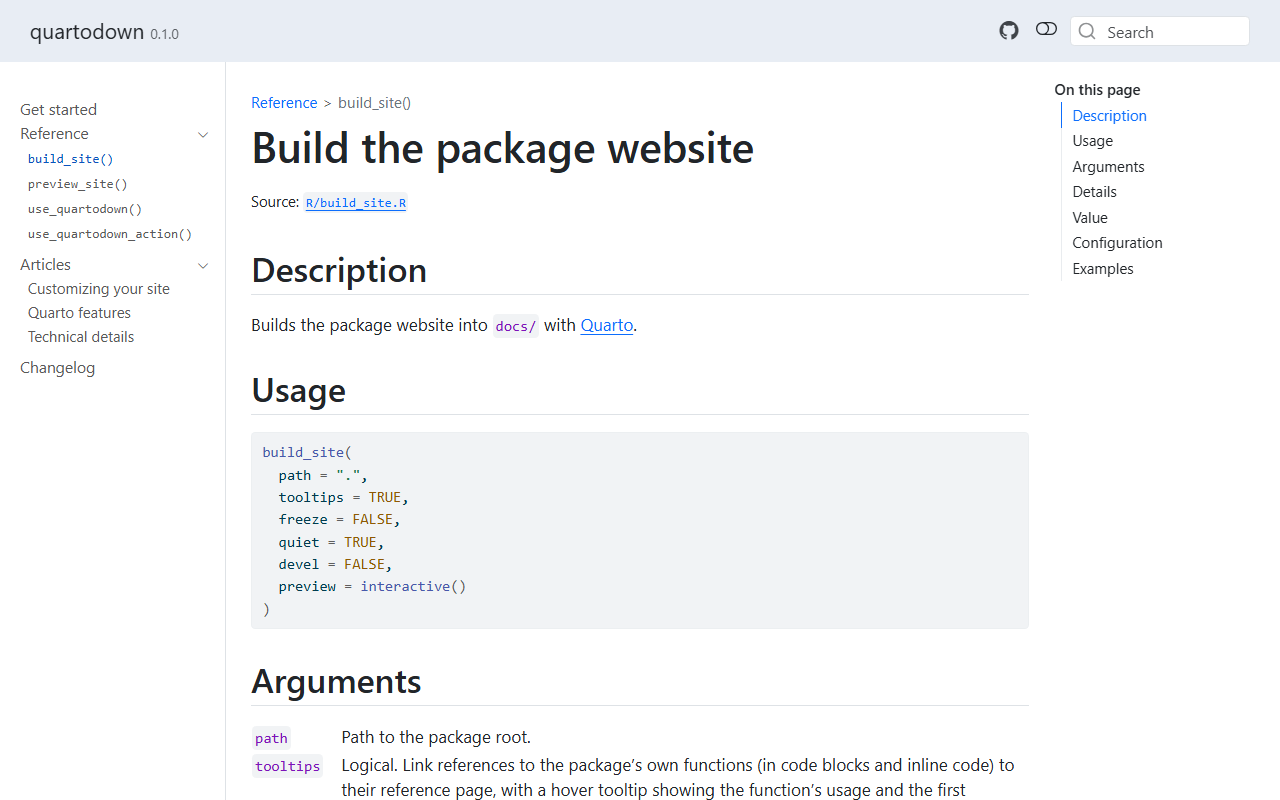
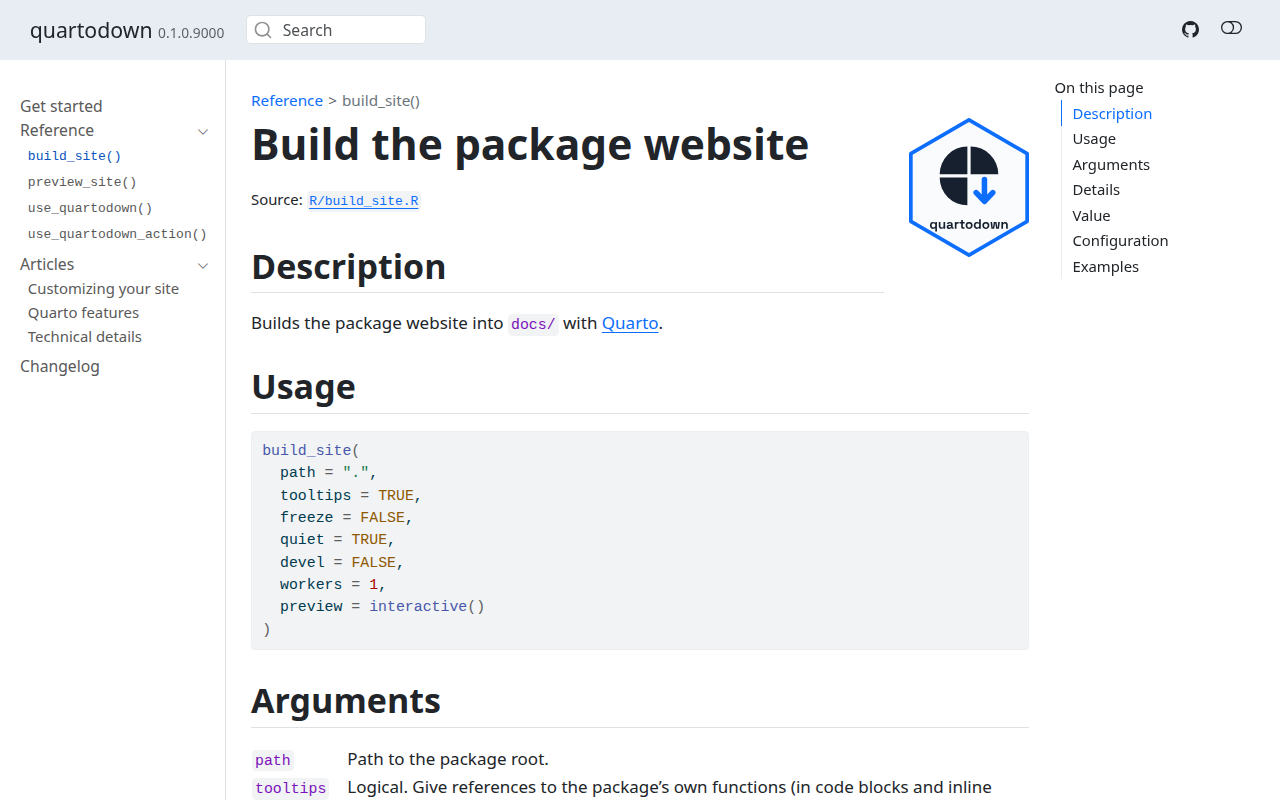
Replace gallery's default entry with a blue custom look

diff --git a/vignettes/articles/gallery/custom/extra.scss b/vignettes/articles/gallery/custom/extra.scss
@@ -1,47 +1,15 @@
-/*-- scss:defaults --*/
-// A teal accent and serif headings, in both themes.
-$primary: #0f766e;
-$headings-font-family: "Iowan Old Style", "Palatino Linotype", Palatino, Georgia, serif;
-
 /*-- scss:rules --*/
-// The navbar as a band of the accent color, with light text and icons.
-.navbar {
-  background-color: $primary !important;
-  --bs-navbar-color: rgba(255, 255, 255, 0.85) !important;
-  --bs-navbar-hover-color: #fff !important;
-  --bs-navbar-active-color: #fff !important;
-  --bs-navbar-brand-color: #fff !important;
-  --bs-navbar-brand-hover-color: #fff !important;
-}
-
-.navbar-title {
-  font-family: $headings-font-family;
-}
-
-.navbar-nav .nav-link:hover,
-.navbar .quarto-navigation-tool:hover {
-  background: rgba(255, 255, 255, 0.15) !important;
-}
-
-.navbar-nav .nav-link.active {
-  border-bottom-color: #fff;
-}
-
-.navbar .quarto-navigation-tool {
-  color: #fff !important;
-}
-
-.navbar .quarto-color-scheme-toggle .bi::before {
-  filter: brightness(0) invert(1);
-}
-
 // Rounder code blocks, marked with the accent.
 div.sourceCode {
   border-radius: 0.75rem;
   border-left: 4px solid $primary;
 }
 
-// Each function on the reference index as a card.
+// Each function on the reference index as a card, below the logo.
+dl.ref-index {
+  clear: both;
+}
+
 dl.ref-index dt,
 dl.ref-index dd {
   background: rgba($body-color, 0.04);

diff --git a/vignettes/articles/gallery/custom/blue-dark.scss b/vignettes/articles/gallery/custom/blue-dark.scss
@@ -1,0 +1,24 @@
+/*-- scss:defaults --*/
+// The same blue on a navy page.
+$primary: #7fb3e6;
+$link-color: $primary;
+$body-bg: #10161d;
+$body-color: #d6dde5;
+$headings-color: #f0f4f8;
+$text-muted: #9aa8b6;
+$border-color: #6b7a8a;
+$code-color: #c3b1e8;
+$code-bg: $body-bg;
+$code-block-bg: #18212b;
+$pre-color: inherit;
+
+// Bootstrap's defaults for these are meant for a light page.
+$input-bg: #1c2530;
+$popover-bg: #1c2530;
+$footer-bg: $body-bg;
+$dropdown-bg: $body-bg;
+$dropdown-color: $body-color;
+$dropdown-link-color: $body-color;
+$dropdown-link-hover-color: $headings-color;
+$dropdown-link-hover-bg: #2a3542;
+$nav-tabs-link-active-color: $body-color;

diff --git a/vignettes/articles/gallery/custom/blue-light.scss b/vignettes/articles/gallery/custom/blue-light.scss
@@ -1,0 +1,10 @@
+/*-- scss:defaults --*/
+// A cool, blue-tinted page.
+$primary: #1f5f99;
+$link-color: $primary;
+$body-bg: #f6f8fb;
+$body-color: #1c2733;
+$headings-color: #12283f;
+$border-color: #c5d0dc;
+$code-color: #7a3e9d;
+$code-block-bg: #e8eef5;
